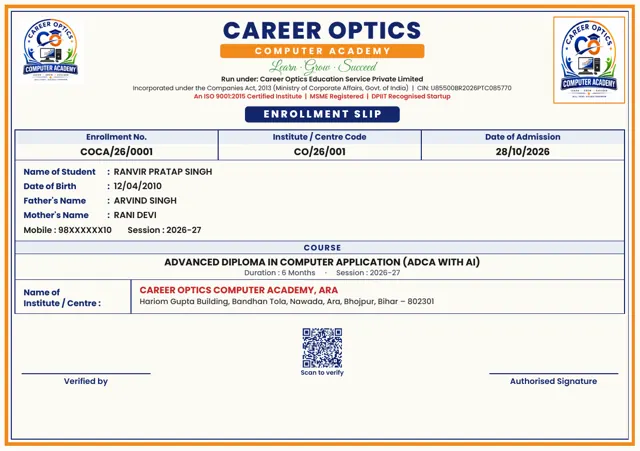
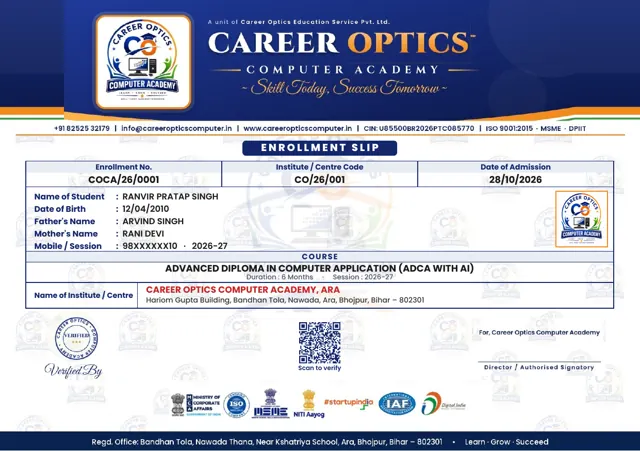
Set the enrollment slip on the academy's artwork
The slip now prints on its own background (public/documents/
enrollment-slip.jpg), composed for A5 landscape from the letterhead's
header, watermark, signatory, logo strip and footer, with the licence's
verified seal: the slip looks like the rest of the academy's documents.
The builder only draws the table and the QR.

diff --git a/organization/src/lib/brand/brandDocuments.ts b/organization/src/lib/brand/brandDocuments.ts
@@ -825,122 +825,89 @@ const SLIP = { w: 595.3, h: 419.5 };
 
 /**
  * The enrollment slip: the academy's confirmation of a student's enrolment,
- * handed over at admission. A half-page slip with its own header (the
- * letterhead is not used), a bordered table of the particulars, the course
- * and the centre, and the signatures with a QR that opens the enrolment check.
+ * handed over at admission. A half-page slip on its own artwork
+ * (enrollment-slip.jpg: the letterhead's header, watermark, seal, signatory,
+ * logos and footer, composed for A5 landscape), with a bordered table of
+ * the particulars, the course and the centre, and a QR that opens the
+ * enrolment check.
  */
 export async function drawEnrollmentSlip(doc: jsPDF, e: EnrollmentSlip) {
-  await registerBrandFonts(doc, ["Poppins-Regular", "Poppins-Medium", "Poppins-SemiBold", "Poppins-Bold", "Poppins-ExtraBold", "GreatVibes-Regular"]);
-  const M = 14;
-  const left = M;
-  const right = SLIP.w - M;
+  await registerBrandFonts(doc, ["Poppins-Regular", "Poppins-Medium", "Poppins-SemiBold", "Poppins-Bold", "Poppins-ExtraBold"]);
+  await background(doc, "enrollment-slip.jpg", SLIP.w, SLIP.h);
+  const left = 24;
+  const right = SLIP.w - 24;
   const W = right - left;
-
-  // Cream page with a double frame, as the slip's reference had
-  doc.setFillColor(253, 251, 245);
-  doc.rect(0, 0, pt(SLIP.w), pt(SLIP.h), "F");
-  doc.setDrawColor(...rgb(ORANGE));
-  doc.setLineWidth(pt(3));
-  doc.rect(pt(6), pt(6), pt(SLIP.w - 12), pt(SLIP.h - 12));
-  doc.setDrawColor(...rgb(NAVY));
-  doc.setLineWidth(pt(0.8));
-  doc.rect(pt(10.5), pt(10.5), pt(SLIP.w - 21), pt(SLIP.h - 21));
-
-  // Header: logo, name, registrations; photograph at the right
-  const logo = await documentArtwork("../career-optics-logo.png");
-  if (logo) picture(doc, logo, left + 2, 16, 62, 62);
-  put(doc, "CAREER OPTICS", { x: 300, y: 36, size: 22, font: "Poppins-ExtraBold", color: NAVY, align: "center", charSpace: 1 });
-  doc.setFillColor(...rgb(ORANGE));
-  doc.roundedRect(pt(205), pt(41), pt(190), pt(13), pt(2), pt(2), "F");
-  put(doc, "COMPUTER ACADEMY", { x: 300, y: 50.5, size: 8.5, font: "Poppins-Bold", color: "#ffffff", align: "center", charSpace: 2.2 });
-  put(doc, "Learn · Grow · Succeed", { x: 300, y: 66, size: 13, font: "GreatVibes-Regular", color: GREEN, align: "center" });
-  put(doc, "Run under: Career Optics Education Service Private Limited", { x: 300, y: 76, size: 6.3, font: "Poppins-SemiBold", color: "#1a1a1a", align: "center" });
-  put(doc, "Incorporated under the Companies Act, 2013 (Ministry of Corporate Affairs, Govt. of India)  |  CIN: U85500BR2026PTC085770", { x: 300, y: 84, size: 5.8, font: "Poppins-Regular", color: "#1a1a1a", align: "center" });
-  put(doc, "An ISO 9001:2015 Certified Institute  |  MSME Registered  |  DPIIT Recognised Startup", { x: 300, y: 92, size: 5.8, font: "Poppins-SemiBold", color: RED, align: "center" });
-  doc.setDrawColor(...rgb(ORANGE));
-  doc.setLineWidth(pt(1));
-  doc.rect(pt(right - 66), pt(16), pt(66), pt(80));
-  if (!picture(doc, e.photo, right - 65, 17, 64, 78)) put(doc, "Photograph", { x: right - 33, y: 58, size: 6.5, font: "Poppins-Regular", color: "#8a8fa5", align: "center" });
-
-  // Title pill
-  doc.setFillColor(...rgb(NAVY));
-  doc.roundedRect(pt(228), pt(99), pt(144), pt(15), pt(3), pt(3), "F");
-  put(doc, "ENROLLMENT SLIP", { x: 300, y: 109.5, size: 9.5, font: "Poppins-ExtraBold", color: "#ffffff", align: "center", charSpace: 1.8 });
-
-  // The table
   const line = (x1: number, y1: number, x2: number, y2: number) => doc.line(pt(x1), pt(y1), pt(x2), pt(y2));
+
+  // Title pill under the contact lines
+  doc.setFillColor(...rgb(NAVY));
+  doc.roundedRect(pt(SLIP.w / 2 - 72), pt(131), pt(144), pt(14), pt(3), pt(3), "F");
+  put(doc, "ENROLLMENT SLIP", { x: SLIP.w / 2, y: 141, size: 9.5, font: "Poppins-ExtraBold", color: "#ffffff", align: "center", charSpace: 1.8 });
+
+  // Row of three: enrolment number, centre code, date of admission
   doc.setDrawColor(...rgb(NAVY));
   doc.setLineWidth(pt(0.7));
-  let y = 121;
+  let y = 150;
   const cw = W / 3;
   doc.setFillColor(232, 236, 246);
-  doc.rect(pt(left), pt(y), pt(W), pt(13), "F");
-  ["Enrollment No.", "Institute / Centre Code", "Date of Admission"].forEach((h, k) => put(doc, h, { x: left + cw * k + cw / 2, y: y + 9.5, size: 7.5, font: "Poppins-Bold", color: NAVY, align: "center" }));
-  y += 13;
-  [e.enrollmentNo, e.centreCode || "—", ddmmyyyy(e.admissionDate).replace(/-/g, "/")].forEach((v, k) => put(doc, v, { x: left + cw * k + cw / 2, y: y + 10.5, size: 9, font: "Poppins-Bold", color: "#1a1a1a", align: "center", maxWidth: cw - 8 }));
-  doc.rect(pt(left), pt(121), pt(W), pt(28));
-  line(left + cw, 121, left + cw, 149);
-  line(left + 2 * cw, 121, left + 2 * cw, 149);
-  y = 149;
+  doc.rect(pt(left), pt(y), pt(W), pt(11), "F");
+  ["Enrollment No.", "Institute / Centre Code", "Date of Admission"].forEach((h, k) => put(doc, h, { x: left + cw * k + cw / 2, y: y + 8.2, size: 7, font: "Poppins-Bold", color: NAVY, align: "center" }));
+  [e.enrollmentNo, e.centreCode || "—", ddmmyyyy(e.admissionDate).replace(/-/g, "/")].forEach((v, k) => put(doc, v, { x: left + cw * k + cw / 2, y: y + 20.5, size: 8.8, font: "Poppins-Bold", color: "#1a1a1a", align: "center", maxWidth: cw - 8 }));
+  doc.rect(pt(left), pt(y), pt(W), pt(24));
+  line(left + cw, y, left + cw, y + 24);
+  line(left + 2 * cw, y, left + 2 * cw, y + 24);
+  y += 24;
 
-  // Particulars block
+  // Particulars with the photograph in the block's right end
   const rows: Array<[string, string]> = [
     ["Name of Student", e.name.toUpperCase()],
     ["Date of Birth", e.dateOfBirth ? ddmmyyyy(e.dateOfBirth).replace(/-/g, "/") : ""],
     ["Father's Name", (e.fatherName || "").toUpperCase()],
     ["Mother's Name", (e.motherName || "").toUpperCase()],
+    ["Mobile / Session", [e.mobile, e.session].filter(Boolean).join("   ·   ")],
   ];
-  const mobile = e.mobile ? `Mobile : ${e.mobile}` : "";
-  const session = e.session ? `Session : ${e.session}` : "";
-  const blockH = 6 + rows.length * 13.5 + (mobile || session ? 13.5 : 0) + 2;
+  const blockH = 60;
   doc.rect(pt(left), pt(y), pt(W), pt(blockH));
-  let ry = y + 14;
+  doc.setDrawColor(...rgb(ORANGE));
+  doc.setLineWidth(pt(1));
+  doc.rect(pt(right - 54), pt(y + 4), pt(48), pt(52));
+  if (!picture(doc, e.photo, right - 53, y + 5, 46, 50)) put(doc, "Photo", { x: right - 32, y: y + 36, size: 6.5, font: "Poppins-Regular", color: "#8a8fa5", align: "center" });
+  doc.setDrawColor(...rgb(NAVY));
+  doc.setLineWidth(pt(0.7));
+  let ry = y + 12;
   for (const [label, value] of rows) {
-    put(doc, label, { x: left + 8, y: ry, size: 7.8, font: "Poppins-Bold", color: NAVY });
-    put(doc, ":", { x: left + 86, y: ry, size: 7.8, font: "Poppins-Bold", color: NAVY });
-    put(doc, value || "—", { x: left + 92, y: ry, size: 8.2, font: "Poppins-SemiBold", color: "#1a1a1a", maxWidth: W - 100 });
-    ry += 13.5;
+    put(doc, label, { x: left + 8, y: ry, size: 7.6, font: "Poppins-Bold", color: NAVY });
+    put(doc, ":", { x: left + 84, y: ry, size: 7.6, font: "Poppins-Bold", color: NAVY });
+    put(doc, value || "—", { x: left + 90, y: ry, size: 8, font: "Poppins-SemiBold", color: "#1a1a1a", maxWidth: W - 90 - 70 });
+    ry += 11.5;
   }
-  if (mobile || session) put(doc, [mobile, session].filter(Boolean).join("        "), { x: left + 8, y: ry, size: 7.8, font: "Poppins-SemiBold", color: "#1a1a1a" });
   y += blockH;
 
-  // Course band and value
-  const band = (label: string) => {
-    doc.setFillColor(232, 236, 246);
-    doc.rect(pt(left), pt(y), pt(W), pt(12), "F");
-    doc.rect(pt(left), pt(y), pt(W), pt(12));
-    put(doc, label, { x: 300, y: y + 8.8, size: 7.5, font: "Poppins-Bold", color: NAVY, align: "center", charSpace: 0.8 });
-    y += 12;
-  };
-  band("COURSE");
-  doc.rect(pt(left), pt(y), pt(W), pt(24));
-  put(doc, e.course.toUpperCase(), { x: 300, y: y + 11, size: 9, font: "Poppins-Bold", color: "#1a1a1a", align: "center", maxWidth: W - 16 });
-  put(doc, [e.duration ? `Duration : ${e.duration}` : "", e.session ? `Session : ${e.session}` : ""].filter(Boolean).join("     ·     "), { x: 300, y: y + 20, size: 6.8, font: "Poppins-Medium", color: "#4a4f63", align: "center" });
-  y += 24;
+  // Course
+  doc.setFillColor(232, 236, 246);
+  doc.rect(pt(left), pt(y), pt(W), pt(10), "F");
+  doc.rect(pt(left), pt(y), pt(W), pt(10));
+  put(doc, "COURSE", { x: SLIP.w / 2, y: y + 7.5, size: 7.2, font: "Poppins-Bold", color: NAVY, align: "center", charSpace: 0.8 });
+  y += 10;
+  doc.rect(pt(left), pt(y), pt(W), pt(19));
+  put(doc, e.course.toUpperCase(), { x: SLIP.w / 2, y: y + 9, size: 8.8, font: "Poppins-Bold", color: "#1a1a1a", align: "center", maxWidth: W - 16 });
+  put(doc, [e.duration ? `Duration : ${e.duration}` : "", e.session ? `Session : ${e.session}` : ""].filter(Boolean).join("     ·     "), { x: SLIP.w / 2, y: y + 16.5, size: 6.4, font: "Poppins-Medium", color: "#4a4f63", align: "center" });
+  y += 19;
 
   // Centre
-  const addr = e.centreAddress ? (doc.splitTextToSize(e.centreAddress, pt(W - 118)) as string[]).slice(0, 2) : [];
-  const ch = 18 + addr.length * 9.5 + 4;
+  const addr = e.centreAddress ? (doc.splitTextToSize(e.centreAddress, pt(W - 118)) as string[]).slice(0, 1) : [];
+  const ch = 14 + addr.length * 9 + 1;
   doc.rect(pt(left), pt(y), pt(W), pt(ch));
-  line(left + 108, y, left + 108, y + ch);
-  put(doc, "Name of", { x: left + 8, y: y + ch / 2 - 1, size: 7.8, font: "Poppins-Bold", color: NAVY });
-  put(doc, "Institute / Centre :", { x: left + 8, y: y + ch / 2 + 9, size: 7.8, font: "Poppins-Bold", color: NAVY });
-  put(doc, e.centreName.toUpperCase(), { x: left + 116, y: y + 13, size: 8.6, font: "Poppins-Bold", color: RED, maxWidth: W - 124 });
-  addr.forEach((l, k) => put(doc, l, { x: left + 116, y: y + 23 + k * 9.5, size: 7.2, font: "Poppins-Medium", color: "#333333" }));
+  line(left + 104, y, left + 104, y + ch);
+  put(doc, "Name of Institute / Centre", { x: left + 8, y: y + ch / 2 + 2.5, size: 7.2, font: "Poppins-Bold", color: NAVY, maxWidth: 92 });
+  put(doc, e.centreName.toUpperCase(), { x: left + 112, y: y + 10, size: 8.4, font: "Poppins-Bold", color: RED, maxWidth: W - 120 });
+  addr.forEach((l, k) => put(doc, l, { x: left + 112, y: y + 19 + k * 9, size: 6.8, font: "Poppins-Medium", color: "#333333" }));
   y += ch;
 
-  // Signatures and the QR
-  const sy = Math.min(SLIP.h - 22, y + 66);
-  doc.setDrawColor(...rgb(NAVY));
-  doc.setLineWidth(pt(0.6));
-  line(left + 6, sy - 10, left + 126, sy - 10);
-  put(doc, "Verified by", { x: left + 66, y: sy, size: 7.5, font: "Poppins-SemiBold", color: NAVY, align: "center" });
-  line(right - 126, sy - 10, right - 6, sy - 10);
-  put(doc, "Authorised Signature", { x: right - 66, y: sy, size: 7.5, font: "Poppins-SemiBold", color: NAVY, align: "center" });
+  // The artwork carries the seal (left) and the signatory (right); the QR sits between them
   const code = await qr(verifyUrl(e.enrollmentNo, "enrollment"), 240);
-  const qy = sy - 52;
-  picture(doc, code, 282, qy, 36, 36);
-  put(doc, "Scan to verify", { x: 300, y: qy + 43, size: 5.8, font: "Poppins-SemiBold", color: NAVY, align: "center" });
+  picture(doc, code, SLIP.w / 2 - 19, 300, 38, 38);
+  put(doc, "Scan to verify", { x: SLIP.w / 2, y: 345, size: 5.8, font: "Poppins-SemiBold", color: NAVY, align: "center" });
 }
 
 export async function enrollmentSlipsPdf(slips: EnrollmentSlip[], fileName = "enrollment-slip") {
